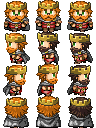
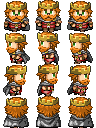
King images updated to all be ginger

diff --git a/kingslayer/src/game/model/game/model/worldObject/entity/entities/Entities.java b/kingslayer/src/game/model/game/model/worldObject/entity/entities/Entities.java
@@ -11,10 +11,7 @@ import game.model.game.model.worldObject.entity.collideStrat.TreasureGhostCollis
 import game.model.game.model.worldObject.entity.collideStrat.hitbox.CellHitbox;
 import game.model.game.model.worldObject.entity.collideStrat.hitbox.CircleHitbox;
 import game.model.game.model.worldObject.entity.collideStrat.hitbox.Hitbox;
-import game.model.game.model.worldObject.entity.drawStrat.GhostDrawStrat;
-import game.model.game.model.worldObject.entity.drawStrat.ImageDrawStrat;
-import game.model.game.model.worldObject.entity.drawStrat.NoDrawStrat;
-import game.model.game.model.worldObject.entity.drawStrat.RotatingImageDrawStrat;
+import game.model.game.model.worldObject.entity.drawStrat.*;
 import game.model.game.model.worldObject.entity.updateStrat.MovingStrat;
 import game.model.game.model.worldObject.entity.updateStrat.StillStrat;
 
@@ -126,13 +123,13 @@ public class Entities {
             StillStrat.SINGLETON,
             HardCollisionStrat.SINGLETON,
             CellHitbox.SINGLETON,
-            ImageDrawStrat.RED_RESOURCE_COLLECTOR_IMAGE_DRAW_STRAT,
+            UpgradableImageDrawStrat.RED_RESOURCE_COLLECTOR_IMAGE_DRAW_STRAT,
             AIDoNothingStrat.SINGLETON);
     }
 
     public static Entity makeResourceCollectorRedGhost(double x, double y) {
         return new Entity(x, y,
-            Team.ONE,
+            Team.NEUTRAL,
             Role.NEUTRAL,
             StillStrat.SINGLETON,
             GhostCollisionStrat.SINGLETON,
@@ -148,13 +145,13 @@ public class Entities {
             StillStrat.SINGLETON,
             HardCollisionStrat.SINGLETON,
             CellHitbox.SINGLETON,
-            ImageDrawStrat.BLUE_RESOURCE_COLLECTOR_IMAGE_DRAW_STRAT,
+            UpgradableImageDrawStrat.BLUE_RESOURCE_COLLECTOR_IMAGE_DRAW_STRAT,
             AIDoNothingStrat.SINGLETON);
     }
 
     public static Entity makeResourceCollectorBlueGhost(double x, double y) {
         return new Entity(x, y,
-            Team.TWO,
+            Team.NEUTRAL,
             Role.NEUTRAL,
             StillStrat.SINGLETON,
             GhostCollisionStrat.SINGLETON,

diff --git a/kingslayer/src/game/model/game/model/worldObject/entity/drawStrat/UpgradableImageDrawStrat.java b/kingslayer/src/game/model/game/model/worldObject/entity/drawStrat/UpgradableImageDrawStrat.java
@@ -1,0 +1,83 @@
+package game.model.game.model.worldObject.entity.drawStrat;
+
+import game.model.game.model.worldObject.entity.Entity;
+import images.Images;
+import javafx.scene.canvas.GraphicsContext;
+import javafx.scene.image.Image;
+
+import static util.Util.toDrawCoords;
+
+public class UpgradableImageDrawStrat extends ImageDrawStrat {
+
+  public static final RedResourceCollectorImageDrawStrat RED_RESOURCE_COLLECTOR_IMAGE_DRAW_STRAT = new RedResourceCollectorImageDrawStrat();
+  public static final BlueResourceCollectorImageDrawStrat BLUE_RESOURCE_COLLECTOR_IMAGE_DRAW_STRAT = new BlueResourceCollectorImageDrawStrat();
+
+  private int tier = 0;
+
+  @Override
+  public void draw(Entity entity, GraphicsContext gc) {
+    double w = this.getWidth();
+    double h = this.getHeight();
+    double x = w - this.getCenterX();
+    double y = h - this.getCenterY();
+
+    gc.drawImage(getImage(),
+        toDrawCoords(w) * tier,
+        0,
+        toDrawCoords(w),
+        toDrawCoords(h),
+        toDrawCoords(entity.data.x - x),
+        toDrawCoords(entity.data.y - y),
+        toDrawCoords(w),
+        toDrawCoords(h));
+  }
+
+  public void upgrade() {
+    tier++;
+  }
+
+  @Override
+  Image getImage() {
+    return null;
+  }
+
+  @Override
+  double getWidth() {
+    return 1;
+  }
+
+  @Override
+  double getHeight() {
+    return 1.75;
+  }
+
+  @Override
+  double getCenterX() {
+    return 0.5;
+  }
+
+  @Override
+  double getCenterY() {
+    return 0.5;
+  }
+
+  public static class RedResourceCollectorImageDrawStrat extends UpgradableImageDrawStrat {
+    @Override
+    Image getImage() {
+      return Images.RED_RESOURCE_COLLECTORS_IMAGE;
+    }
+
+    private RedResourceCollectorImageDrawStrat() {
+    }
+  }
+
+  public static class BlueResourceCollectorImageDrawStrat extends UpgradableImageDrawStrat {
+    @Override
+    Image getImage() {
+      return Images.RED_RESOURCE_COLLECTORS_IMAGE;
+    }
+
+    private BlueResourceCollectorImageDrawStrat() {
+    }
+  }
+}

diff --git a/kingslayer/src/game/model/game/model/worldObject/entity/drawStrat/ImageDrawStrat.java b/kingslayer/src/game/model/game/model/worldObject/entity/drawStrat/ImageDrawStrat.java
@@ -25,8 +25,6 @@ public abstract class ImageDrawStrat extends DrawStrat {
     public static final ImageDrawStrat TREASURE_IMAGE_DRAW_STRAT = new TreasureImageDrawStrat();
 
     public static final ImageDrawStrat WALL_BUILDABLE_IMAGE_DRAW_STRAT = new WallBuildableImageDrawStrat();
-    public static final ImageDrawStrat RED_RESOURCE_COLLECTOR_IMAGE_DRAW_STRAT = new RedResourceCollectorImageDrawStrat();
-    public static final ImageDrawStrat BLUE_RESOURCE_COLLECTOR_IMAGE_DRAW_STRAT = new BlueResourceCollectorImageDrawStrat();
 
     @Override
     public DrawData initDrawData() {
@@ -269,66 +267,6 @@ public abstract class ImageDrawStrat extends DrawStrat {
         }
 
         private WallBuildableImageDrawStrat() {
-        }
-    }
-
-    public static class RedResourceCollectorImageDrawStrat extends ImageDrawStrat {
-        @Override
-        Image getImage() {
-            return Images.RED_RESOURCE_COLLECTOR_IMAGE;
-        }
-
-        @Override
-        double getWidth() {
-            return 1;
-        }
-
-        @Override
-        double getHeight() {
-            return 1.75;
-        }
-
-        @Override
-        double getCenterX() {
-            return 0.5;
-        }
-
-        @Override
-        double getCenterY() {
-            return 0.5;
-        }
-
-        private RedResourceCollectorImageDrawStrat() {
-        }
-    }
-
-    public static class BlueResourceCollectorImageDrawStrat extends ImageDrawStrat {
-        @Override
-        Image getImage() {
-            return Images.BLUE_RESOURCE_COLLECTOR_IMAGE;
-        }
-
-        @Override
-        double getWidth() {
-            return 1;
-        }
-
-        @Override
-        double getHeight() {
-            return 1.75;
-        }
-
-        @Override
-        double getCenterX() {
-            return 0.5;
-        }
-
-        @Override
-        double getCenterY() {
-            return 0.5;
-        }
-
-        private BlueResourceCollectorImageDrawStrat() {
         }
     }
 

diff --git a/kingslayer/src/game/model/game/model/ServerGameModel.java b/kingslayer/src/game/model/game/model/ServerGameModel.java
@@ -141,14 +141,18 @@ public class ServerGameModel extends GameModel {
              //   }
 
             counter++;
+            int resources = 0;
             for(Entity e: this.getAllEntities()) {
                 if (e.team != Team.NEUTRAL && e.role == Role.NEUTRAL) {
+                    resources++;
                     if (counter > 500) {
+                        System.out.println("Team " + e.team + " has a resource spawner");
                         changeResource(e.team, TeamResourceData.Resource.WOOD, 1);
                         counter = 0;
                     }
                 }
             }
+            //System.out.println("How much wood? " + resources);
 
             for(Model model : clients) {
                 model.processMessage(new UpdateResourceCommand(teamData.get(clientToTeamRoleMap.get(model).getKey()))); //TEMPORARY GARBAGE

diff --git a/kingslayer/src/network/NetworkCommon.java b/kingslayer/src/network/NetworkCommon.java
@@ -82,8 +82,8 @@ public class NetworkCommon {
         kryo.register(ImageDrawStrat.BoxImageDrawStrat.class);
         kryo.register(ImageDrawStrat.WallImageDrawStrat.class);
         kryo.register(ImageDrawStrat.WallBuildableImageDrawStrat.class);
-        kryo.register(ImageDrawStrat.RedResourceCollectorImageDrawStrat.class);
-        kryo.register(ImageDrawStrat.BlueResourceCollectorImageDrawStrat.class);
+        kryo.register(UpgradableImageDrawStrat.RedResourceCollectorImageDrawStrat.class);
+        kryo.register(UpgradableImageDrawStrat.BlueResourceCollectorImageDrawStrat.class);
         kryo.register(UnitCollisionStrat.class);
         kryo.register(SoftCollisionStrat.class);
         kryo.register(HardCollisionStrat.class);

diff --git a/kingslayer/src/images/Images.java b/kingslayer/src/images/Images.java
@@ -13,6 +13,8 @@ public abstract class Images {
     public static final Image WALL_BUILDABLE_IMAGE = getImage("wall_buildable.png");
     public static final Image RED_RESOURCE_COLLECTOR_IMAGE = getImage("resource_collector_red.png");
     public static final Image BLUE_RESOURCE_COLLECTOR_IMAGE = getImage("resource_collector_blue.png");
+    public static final Image RED_RESOURCE_COLLECTORS_IMAGE = getImage("resource_collectors_red.png");
+    public static final Image BLUE_RESOURCE_COLLECTORS_IMAGE = getImage("resource_collectors_blue.png");
 
     public static final Image TREASURE_IMAGE = getImage("treasure.png");
     public static final Image ARROW_IMAGE = getImage("arrow.png");

diff --git a/kingslayer/src/game/model/game/model/team/TeamResourceData.java b/kingslayer/src/game/model/game/model/team/TeamResourceData.java
@@ -49,7 +49,7 @@ public class TeamResourceData {
      * has 0 of all resources.
      */
     public TeamResourceData() {
-        resources.put(Resource.WOOD, 0);
+        resources.put(Resource.WOOD, 20);//0);
         resources.put(Resource.STONE, 0);
         resources.put(Resource.METAL, 0);
 
